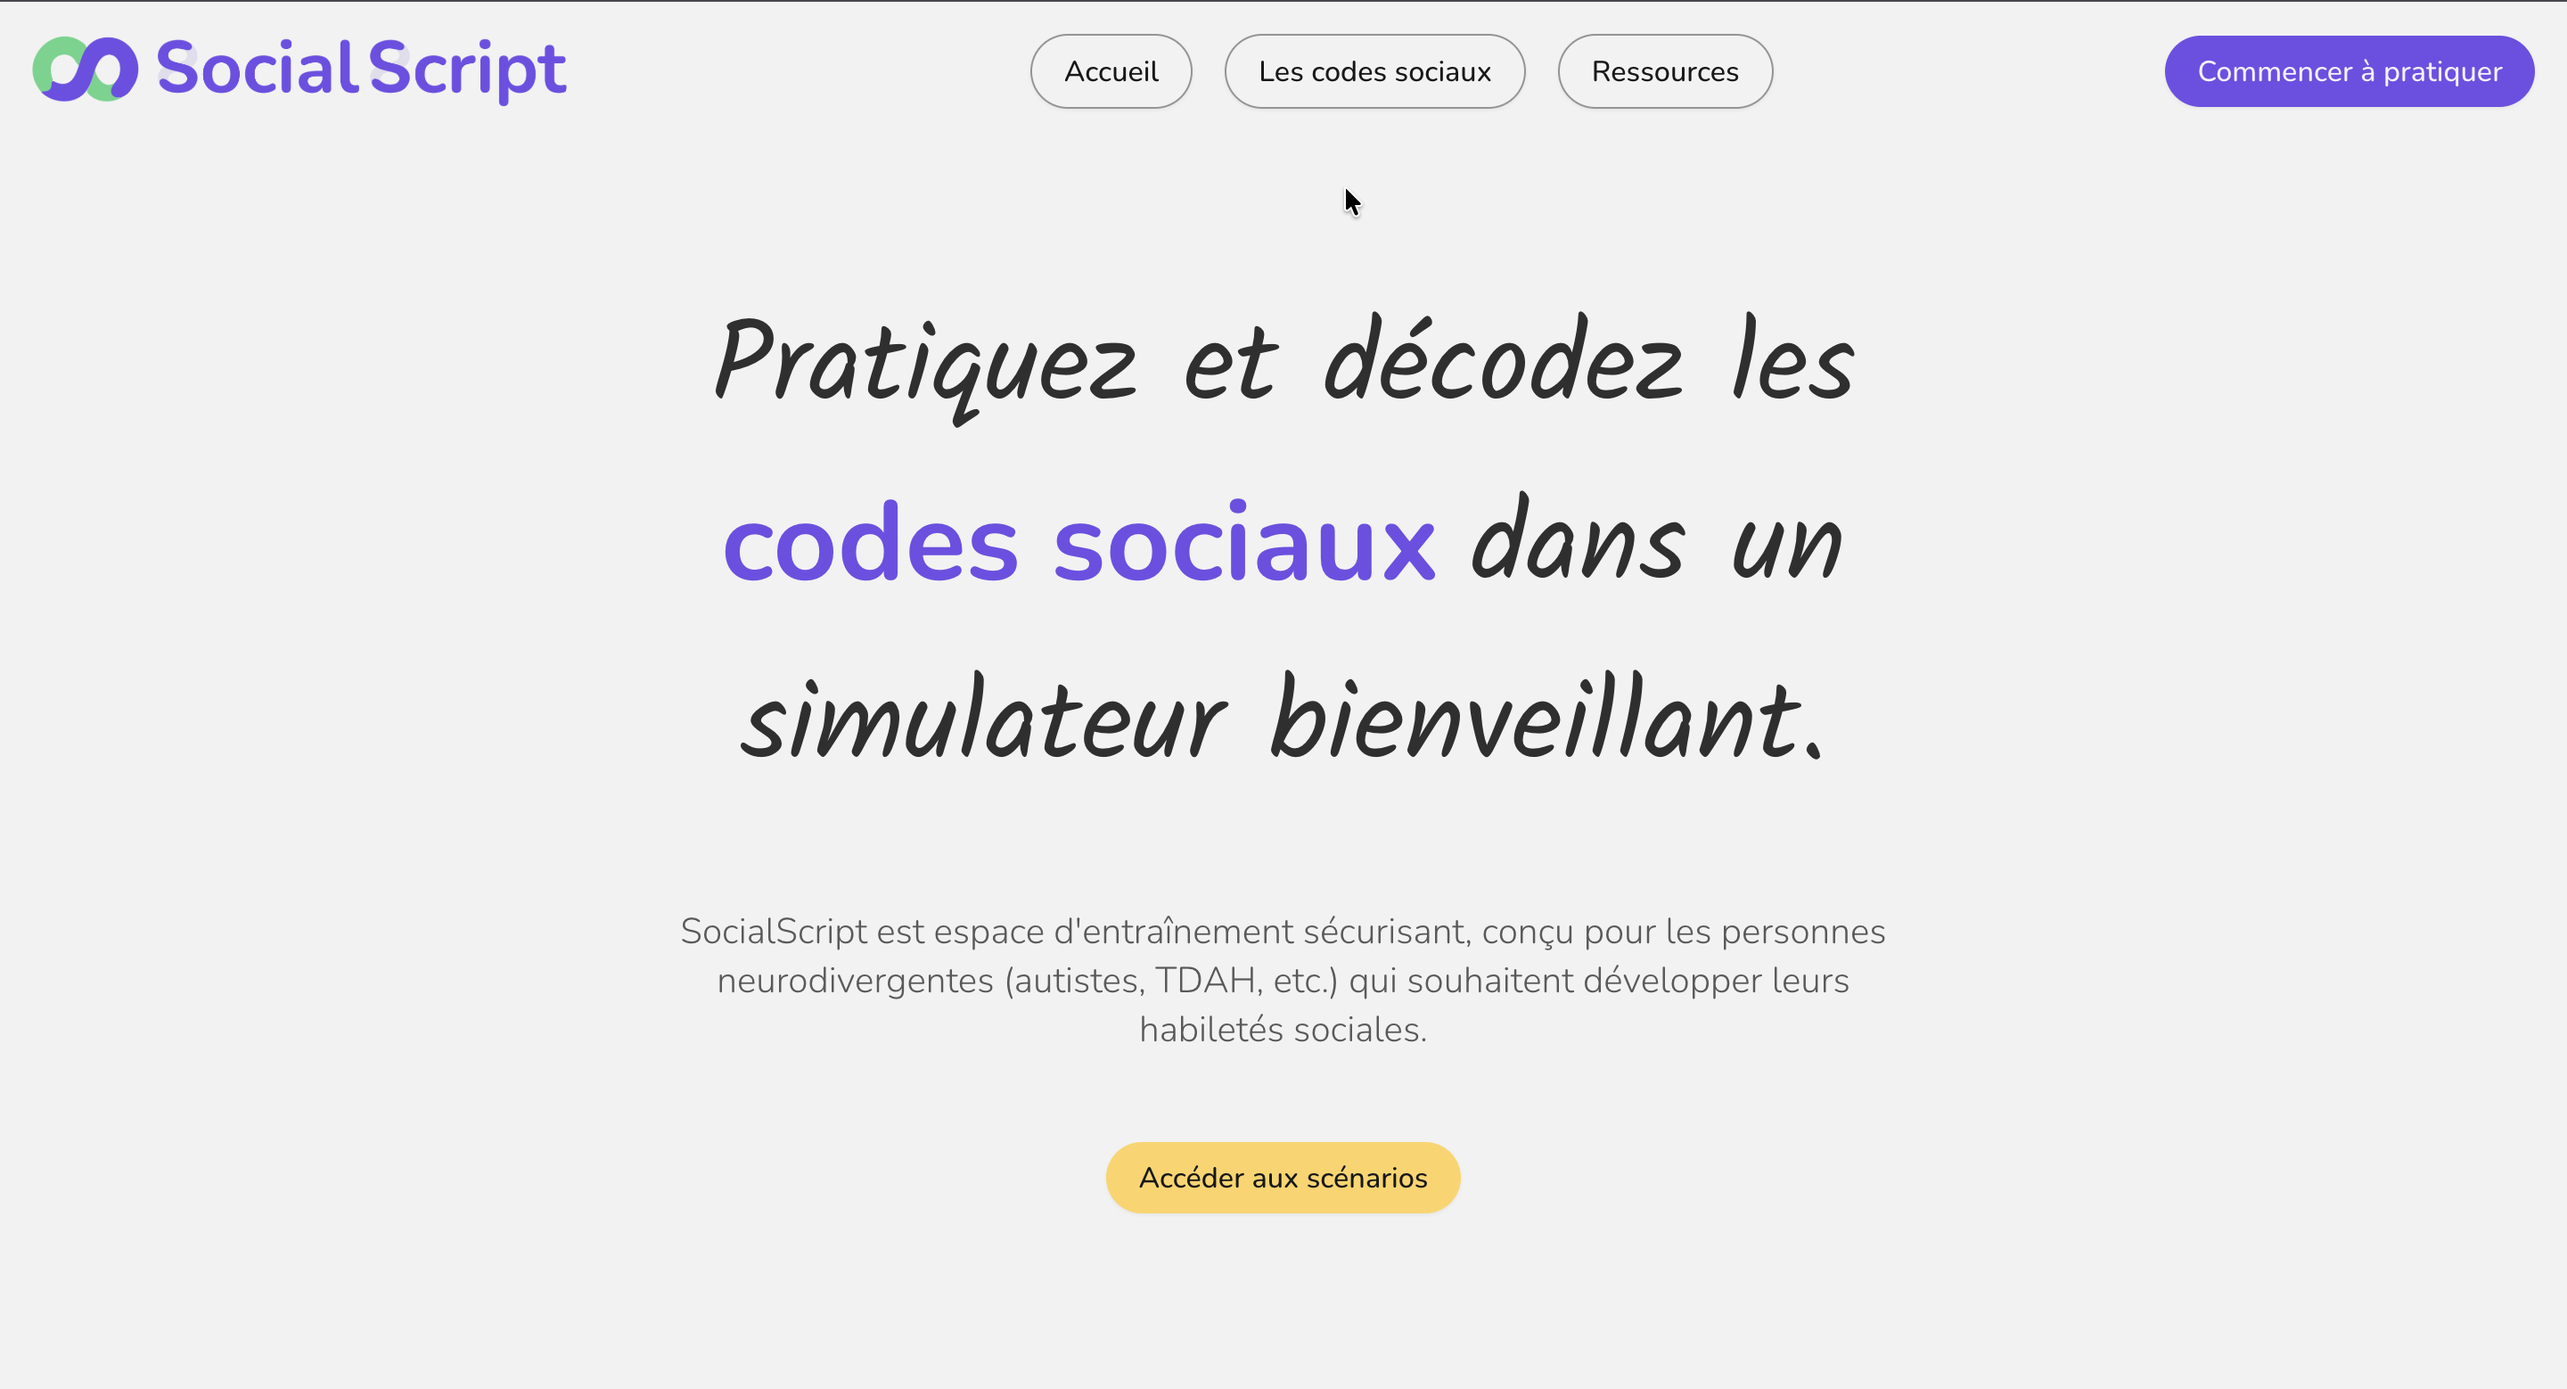
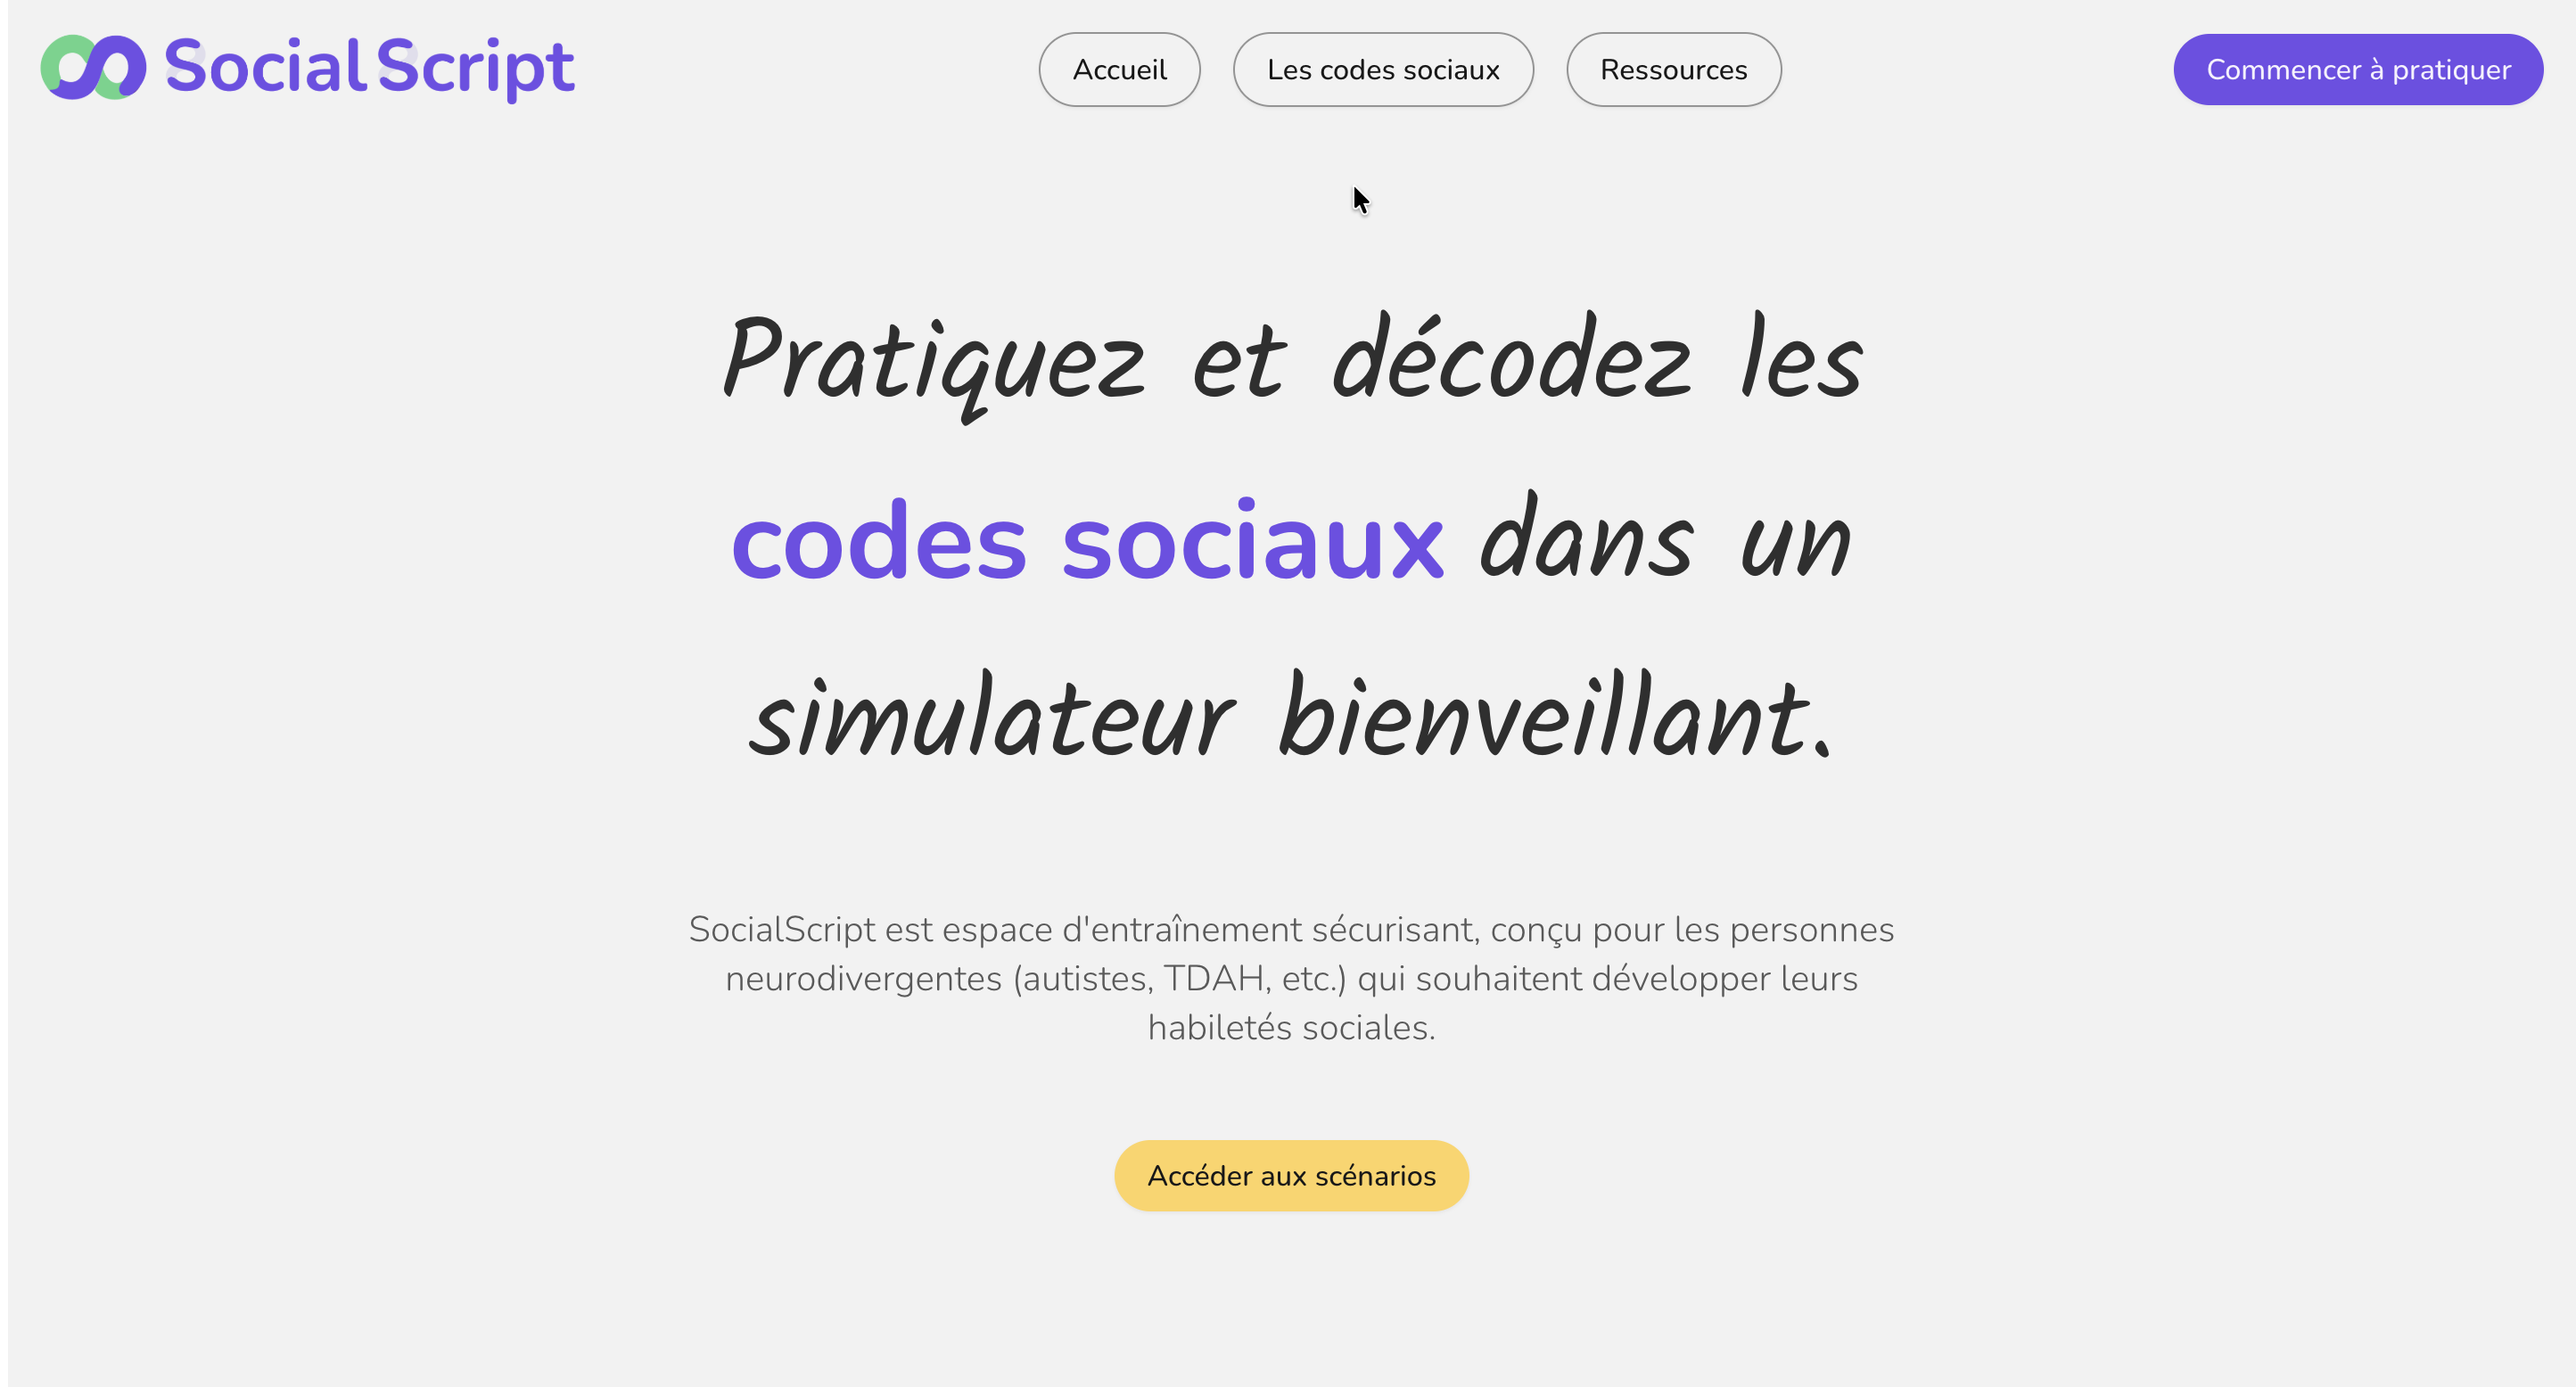
made button more visible

diff --git a/src/app/globals.css b/src/app/globals.css
@@ -321,7 +321,7 @@ em {
     flex-direction: column;
     justify-content: space-between;
     /* a supprimer ? */
-    
+
 
     &.sticky {
         right: 0;
@@ -431,7 +431,7 @@ em {
             /* Limite la largeur sur grand écran */
             padding: 6px 8px;
             margin-right: 5px;
-             border-radius: var(--radius-lg);
+            border-radius: var(--radius-lg);
             background: var(--main-background);
             color: var(--main-text);
             border: 1px solid rgb(from var(--main-text) r g b / 30%);
@@ -666,14 +666,14 @@ em {
     display: flex;
     align-items: center;
     justify-content: center;
-    width: 45px;
-    height: 45px;
+    width: 50px;
+    height: 50px;
 
     background-color: var(--main-background);
     color: var(--main-text);
     cursor: pointer;
     z-index: 999;
-    border: 1.3px solid transparent;
+    border: 1.3px solid var(--main-text);
     border-radius: 50%;
     transition: all 0.3s ease;
 }
@@ -683,7 +683,9 @@ em {
 
     border-radius: 50%;
     border-color: var(--main-text);
-    /* On ne change que la couleur */
+    background-color: var(--main-text);
+    color: var(--main-background);
+
 }
 
 
@@ -730,7 +732,10 @@ em {
     width: 22px;
     height: 22px;
     transition: color 0.3s ease;
+
+   
 }
+
 
 /* =========================================
    5. SECTIONS & MAIN CONTENT
@@ -741,7 +746,7 @@ em {
 
 .page-section {
     height: 100vh;
-    width: 80vw;
+    width: 90vw;
     display: flex;
     align-items: center;
     padding-left: 10vw;
@@ -772,8 +777,9 @@ em {
     flex-direction: column;
     justify-content: center;
 
+
     .text_intro {
-        /* border:  1px solid sandybrown; */
+        font-size: calc(var(--user-size) * 1.1);
     }
 }
 
@@ -1117,7 +1123,7 @@ em {
                 align-items: center;
                 justify-content: center;
 
-                /* ÉTAT INITIAL : Complètement à gauche, hors du cadre */
+                /* état initial à gauche */
                 transform: translateX(-100%);
                 opacity: 1;
                 /* Transition fluide pour le mouvement */
@@ -1129,12 +1135,12 @@ em {
             .overlay-text {
                 color: var(--main-background);
                 border: 1px solid var(--main-background);
+                border-radius: var(--radius-full);
                 padding: 10px 20px;
                 opacity: 0;
                 /* Petit effet de retard  */
                 transform: translateX(-20px);
                 transition: all 0.3s ease 0.3s;
-
             }
 
             /* L'overlay arrive et recouvre l'image */
